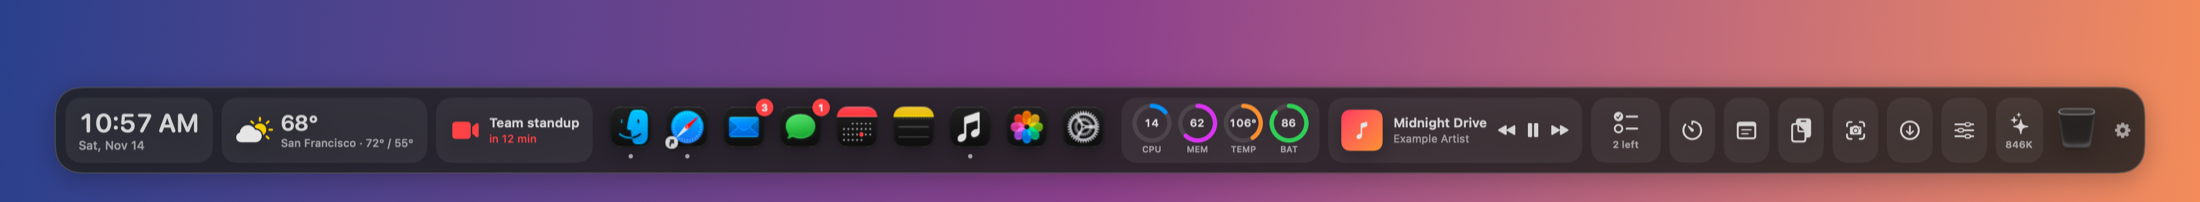
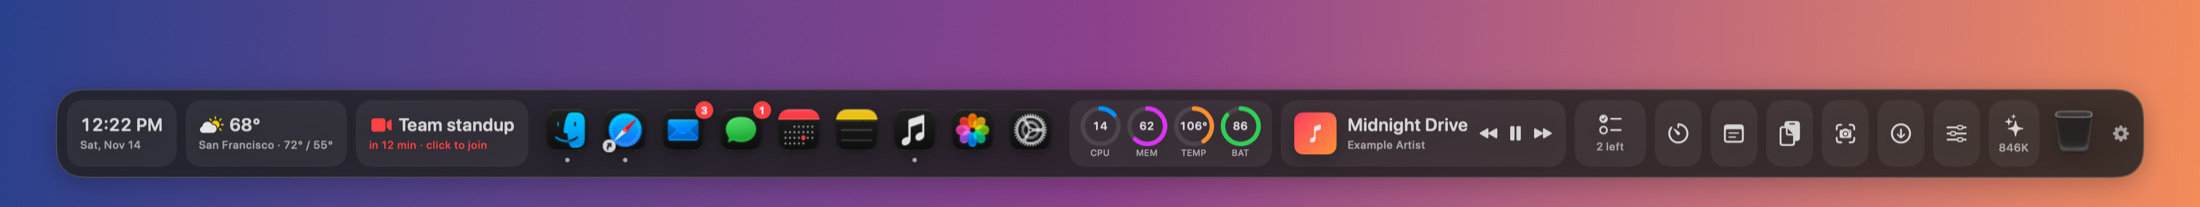
Match fonts across tiles, restack weather and calendar, add browser profiles
Every tile now uses the same title and caption styles. Weather and
calendar show the icon beside the top line with details underneath, and
the calendar says when a click will join the meeting. Right-clicking a
Chromium browser lists its profiles. Stop tracking build-manifest.json,
a local tool artifact that does not belong to the app.

diff --git a/WidgetDock.swift b/WidgetDock.swift
@@ -101,6 +101,11 @@ func shortCount(_ n: Int) -> String {
     }
 }
 
+struct BrowserProfile: Hashable {
+    let dir: String
+    let name: String
+}
+
 struct TileInfo {
     let id: String
     let name: String
@@ -416,6 +421,12 @@ final class DockStore: ObservableObject {
         replaceDock = d.bool(forKey: "replaceDock")
     }
 
+    /// Every tile uses the same two text styles, so the bar reads as one piece.
+    var titleFont: Font { .system(size: 16 * scale, weight: .semibold, design: .rounded) }
+    var captionFont: Font { .system(size: 10 * scale, weight: .medium, design: .rounded) }
+    /// Icons that sit beside a title line.
+    var inlineIcon: Font { .system(size: 15 * scale, weight: .medium) }
+
     var visibleTiles: [String] { tileOrder.filter { !hiddenTiles.contains($0) } }
 
     func start() {
@@ -625,6 +636,42 @@ final class DockStore: ObservableObject {
     }
 
     /// Clicking the app you're already in hides it; otherwise it opens or comes to the front.
+    // MARK: Browser profiles (Chrome and its relatives list them in a "Local State" file)
+
+    private static let browserFolders: [String: String] = [
+        "com.google.Chrome": "Google/Chrome",
+        "com.google.Chrome.beta": "Google/Chrome Beta",
+        "com.google.Chrome.canary": "Google/Chrome Canary",
+        "com.brave.Browser": "BraveSoftware/Brave-Browser",
+        "com.microsoft.edgemac": "Microsoft Edge",
+        "com.vivaldi.Vivaldi": "Vivaldi",
+    ]
+    private var profileCache: [String: (at: Date, list: [BrowserProfile])] = [:]
+
+    /// The browser's profiles, by name. Empty for apps that are not a supported browser. Re-read at most once a minute.
+    func browserProfiles(_ path: String) -> [BrowserProfile] {
+        if let hit = profileCache[path], Date().timeIntervalSince(hit.at) < 60 { return hit.list }
+        var list: [BrowserProfile] = []
+        if let id = Bundle(path: path)?.bundleIdentifier, let folder = Self.browserFolders[id],
+           let support = FileManager.default.urls(for: .applicationSupportDirectory, in: .userDomainMask).first,
+           let data = try? Data(contentsOf: support.appendingPathComponent(folder).appendingPathComponent("Local State")),
+           let json = try? JSONSerialization.jsonObject(with: data) as? [String: Any],
+           let cache = (json["profile"] as? [String: Any])?["info_cache"] as? [String: [String: Any]] {
+            list = cache.map { BrowserProfile(dir: $0.key, name: ($0.value["name"] as? String) ?? $0.key) }
+                .sorted { $0.name.localizedCaseInsensitiveCompare($1.name) == .orderedAscending }
+        }
+        profileCache[path] = (Date(), list)
+        return list
+    }
+
+    func openProfile(_ path: String, _ profile: BrowserProfile) {
+        let cfg = NSWorkspace.OpenConfiguration()
+        cfg.arguments = ["--profile-directory=\(profile.dir)"]
+        // A second launch hands the request to the browser that is already open, which shows that profile's window.
+        cfg.createsNewApplicationInstance = true
+        NSWorkspace.shared.openApplication(at: URL(fileURLWithPath: path), configuration: cfg)
+    }
+
     func activate(_ path: String) {
         if let front = NSWorkspace.shared.frontmostApplication, front.bundleURL?.path == path {
             front.hide()
@@ -1045,12 +1092,12 @@ struct ClockTile: View {
     var body: some View {
         TimelineView(.periodic(from: .now, by: 1)) { ctx in
             Tile {
-                VStack(alignment: .leading, spacing: 0) {
+                VStack(alignment: .leading, spacing: 2 * store.scale) {
                     Text(ctx.date, format: .dateTime.hour().minute())
-                        .font(.system(size: 24 * store.scale, weight: .semibold, design: .rounded))
+                        .font(store.titleFont)
                         .monospacedDigit()
                     Text(ctx.date, format: .dateTime.weekday(.abbreviated).month(.abbreviated).day())
-                        .font(.system(size: 11 * store.scale, weight: .medium))
+                        .font(store.captionFont)
                         .foregroundStyle(.secondary)
                 }
                 .fixedSize()
@@ -1063,21 +1110,21 @@ struct WeatherTile: View {
     @EnvironmentObject var store: DockStore
     var body: some View {
         Tile {
-            HStack(spacing: 8 * store.scale) {
-                Image(systemName: store.weather?.symbol ?? "cloud.slash")
-                    .symbolRenderingMode(.multicolor)
-                    .font(.system(size: 24 * store.scale))
-                VStack(alignment: .leading, spacing: 0) {
+            VStack(alignment: .leading, spacing: 2 * store.scale) {
+                HStack(spacing: 5 * store.scale) {
+                    Image(systemName: store.weather?.symbol ?? "cloud.slash")
+                        .symbolRenderingMode(.multicolor)
+                        .font(store.inlineIcon)
                     Text(store.weather.map { "\(Int($0.temp.rounded()))°" } ?? "--°")
-                        .font(.system(size: 20 * store.scale, weight: .semibold, design: .rounded))
+                        .font(store.titleFont)
                         .opacity(store.weatherStale ? 0.5 : 1)
-                    Text(subtitle)
-                        .font(.system(size: 10 * store.scale, weight: .medium))
-                        .foregroundStyle(.secondary)
-                        .lineLimit(1)
                 }
-                .fixedSize()
+                Text(subtitle)
+                    .font(store.captionFont)
+                    .foregroundStyle(.secondary)
+                    .lineLimit(1)
             }
+            .fixedSize()
         }
         .help(store.weatherNote.map { "Weather for \(store.placeName): \($0)" } ?? "Weather for \(store.placeName)")
     }
@@ -1116,23 +1163,25 @@ struct CalendarTile: View {
         TimelineView(.periodic(from: .now, by: 30)) { ctx in
             let e = store.nextEvent
             let soon = e.map { $0.start.timeIntervalSince(ctx.date) < 15 * 60 } ?? false
+            let canJoin = soon && e?.joinURL != nil
             Tile {
-                HStack(spacing: 8 * store.scale) {
-                    Image(systemName: e?.joinURL != nil && soon ? "video.fill" : "calendar")
-                        .font(.system(size: 20 * store.scale, weight: .medium))
-                        .foregroundStyle(soon ? Color.red : Color.primary)
-                    VStack(alignment: .leading, spacing: 1) {
+                VStack(alignment: .leading, spacing: 2 * store.scale) {
+                    HStack(spacing: 5 * store.scale) {
+                        Image(systemName: canJoin ? "video.fill" : "calendar")
+                            .font(store.inlineIcon)
+                            .foregroundStyle(soon ? Color.red : Color.primary)
                         Text(e?.title ?? (store.calendarDenied ? "No calendar access" : "No upcoming events"))
-                            .font(.system(size: 12 * store.scale, weight: .semibold))
-                            .lineLimit(1)
-                        Text(e.map { subtitle($0, now: ctx.date) } ?? (store.calendarDenied ? "Allow in System Settings" : "Next 7 days are clear"))
-                            .font(.system(size: 10 * store.scale, weight: .medium))
-                            .foregroundStyle(soon ? Color.red : Color.secondary)
+                            .font(store.titleFont)
                             .lineLimit(1)
                     }
-                    .frame(maxWidth: 150 * store.scale, alignment: .leading)
-                    .fixedSize()
+                    Text((e.map { subtitle($0, now: ctx.date) } ?? (store.calendarDenied ? "Allow in System Settings" : "Next 7 days are clear"))
+                         + (canJoin ? " · click to join" : ""))
+                        .font(store.captionFont)
+                        .foregroundStyle(soon ? Color.red : Color.secondary)
+                        .lineLimit(1)
                 }
+                .frame(maxWidth: 190 * store.scale, alignment: .leading)
+                .fixedSize()
             }
             .contentShape(Rectangle())
             .onTapGesture { open(e) }
@@ -1182,6 +1231,12 @@ struct AppIcon: View {
         .help(name)
         .contextMenu {
             Button("Open \(name)") { store.launch(path) }
+            let profiles = store.browserProfiles(path)
+            if profiles.count > 1 {
+                Divider()
+                ForEach(profiles, id: \.self) { p in Button(p.name) { store.openProfile(path, p) } }
+                Divider()
+            }
             Button("Show in Finder") { NSWorkspace.shared.activateFileViewerSelecting([URL(fileURLWithPath: path)]) }
             Divider()
             if let folder {
@@ -1343,12 +1398,12 @@ struct Ring: View {
                     .rotationEffect(.degrees(-90))
                     .animation(.easeOut(duration: 0.5), value: value)
                 Text(text ?? "\(Int((value * 100).rounded()))")
-                    .font(.system(size: 10 * store.scale, weight: .semibold, design: .rounded))
+                    .font(store.captionFont.weight(.semibold))
                     .monospacedDigit()
             }
             .frame(width: 32 * store.scale, height: 32 * store.scale)
             Text(label)
-                .font(.system(size: 8 * store.scale, weight: .semibold))
+                .font(.system(size: 8 * store.scale, weight: .medium, design: .rounded))
                 .foregroundStyle(.secondary)
         }
     }
@@ -1398,9 +1453,9 @@ struct MusicTile: View {
                         NSWorkspace.shared.openApplication(at: url, configuration: .init())
                     }
                 }
-                VStack(alignment: .leading, spacing: 1) {
-                    Text(track.title).font(.system(size: 12 * store.scale, weight: .semibold)).lineLimit(1)
-                    Text(track.artist).font(.system(size: 10 * store.scale)).foregroundStyle(.secondary).lineLimit(1)
+                VStack(alignment: .leading, spacing: 2 * store.scale) {
+                    Text(track.title).font(store.titleFont).lineLimit(1)
+                    Text(track.artist).font(store.captionFont).foregroundStyle(.secondary).lineLimit(1)
                 }
                 .frame(maxWidth: 130 * store.scale, alignment: .leading)
                 .fixedSize()
@@ -1428,9 +1483,9 @@ struct TodoTile: View {
     var body: some View {
         Tile {
             VStack(spacing: 3) {
-                Image(systemName: "checklist").font(.system(size: 20 * store.scale, weight: .medium))
+                Image(systemName: "checklist").font(.system(size: 18 * store.scale, weight: .medium))
                 Text(remaining == 0 ? "Todos" : "\(remaining) left")
-                    .font(.system(size: 9 * store.scale, weight: .semibold))
+                    .font(store.captionFont)
                     .foregroundStyle(.secondary)
             }
             .frame(minWidth: 40 * store.scale)
@@ -1492,7 +1547,7 @@ struct ToolFace: View {
                     .foregroundStyle(tint)
                 if let label {
                     Text(label)
-                        .font(.system(size: 9 * store.scale, weight: .semibold, design: .rounded))
+                        .font(store.captionFont)
                         .monospacedDigit()
                         .foregroundStyle(.secondary)
                 }
